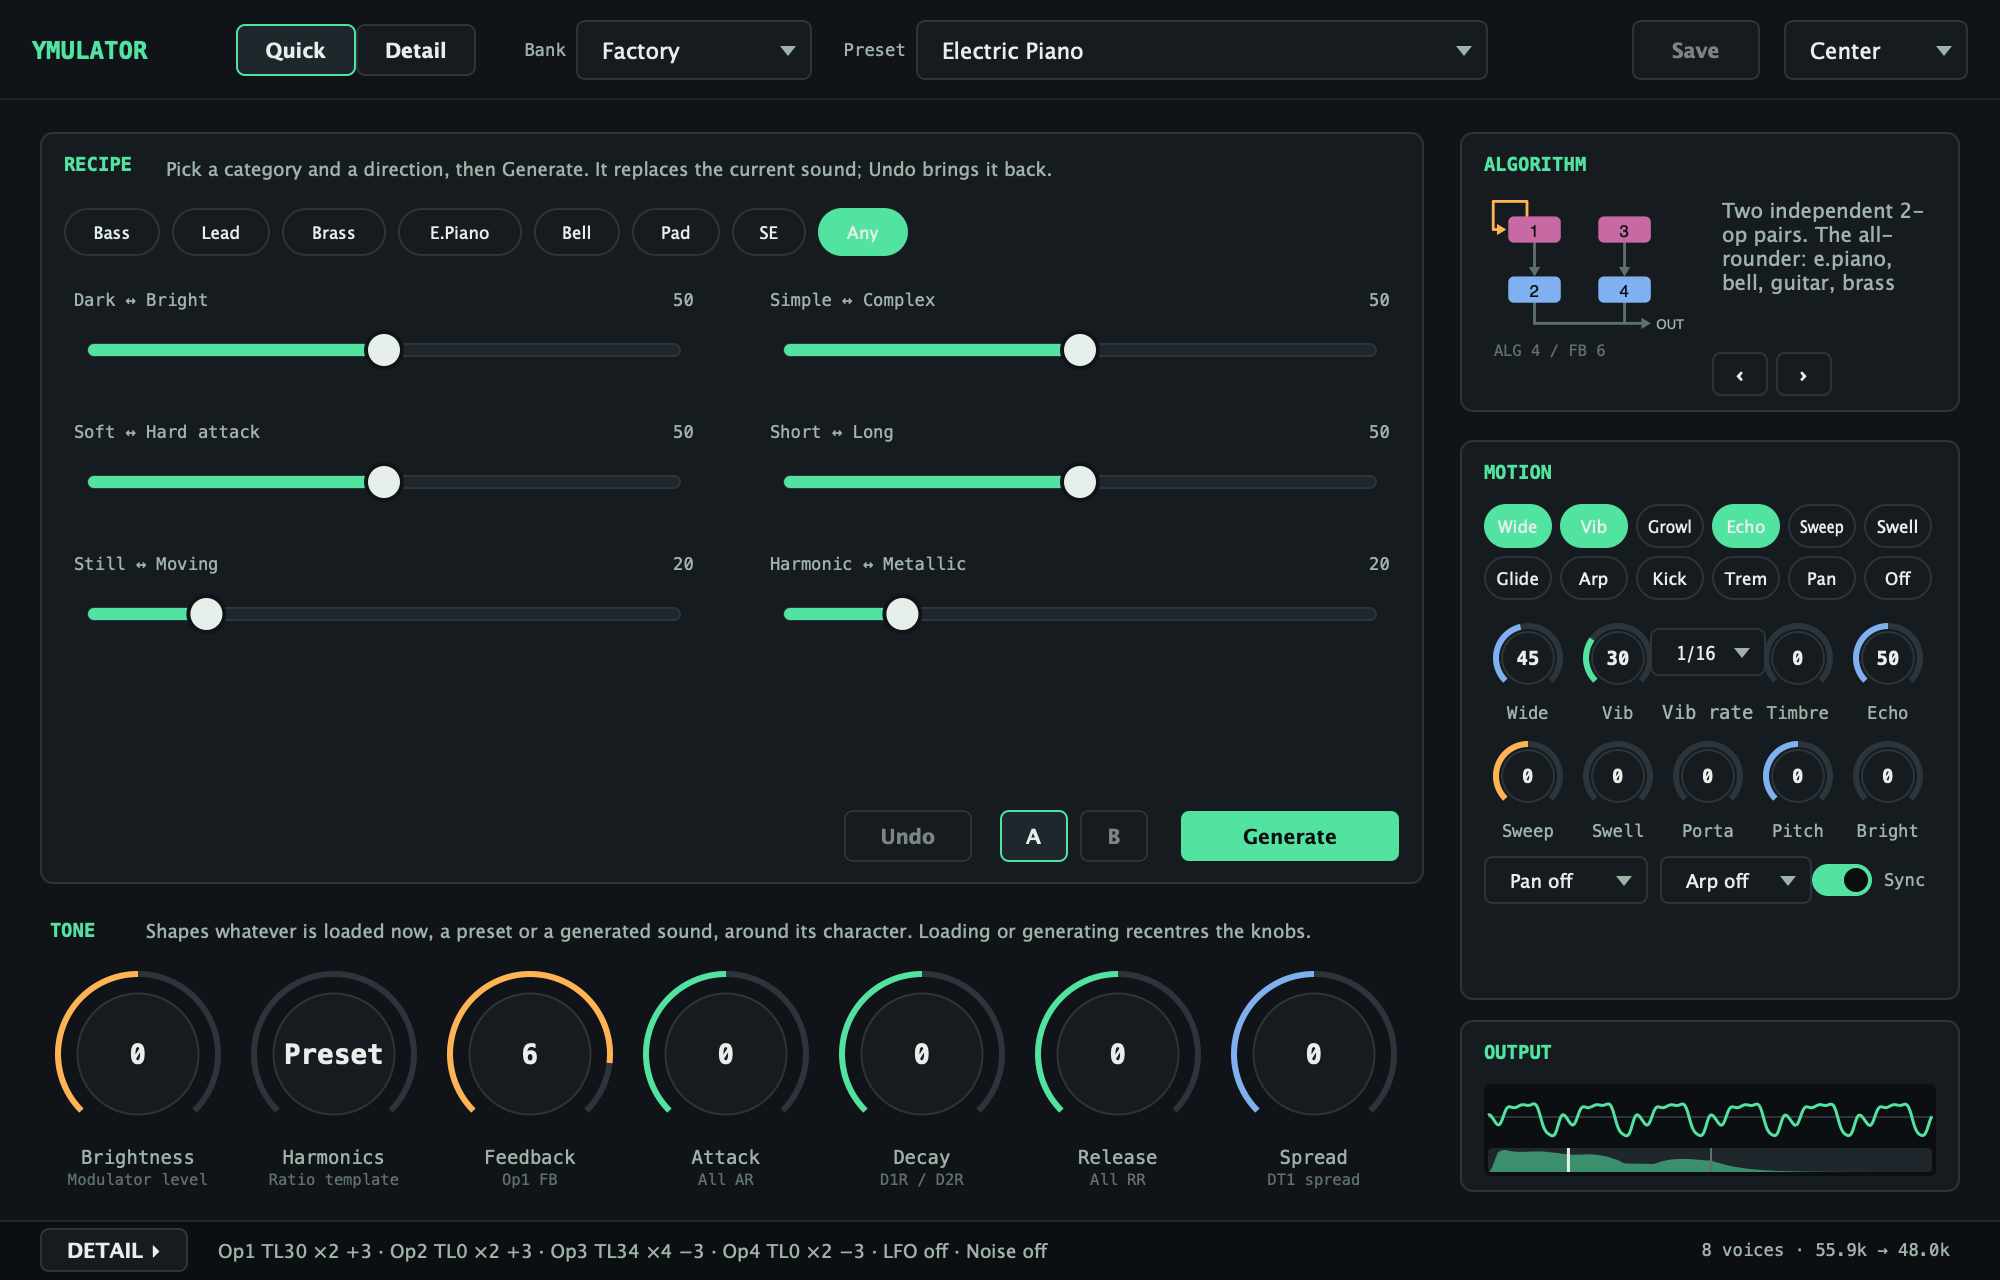
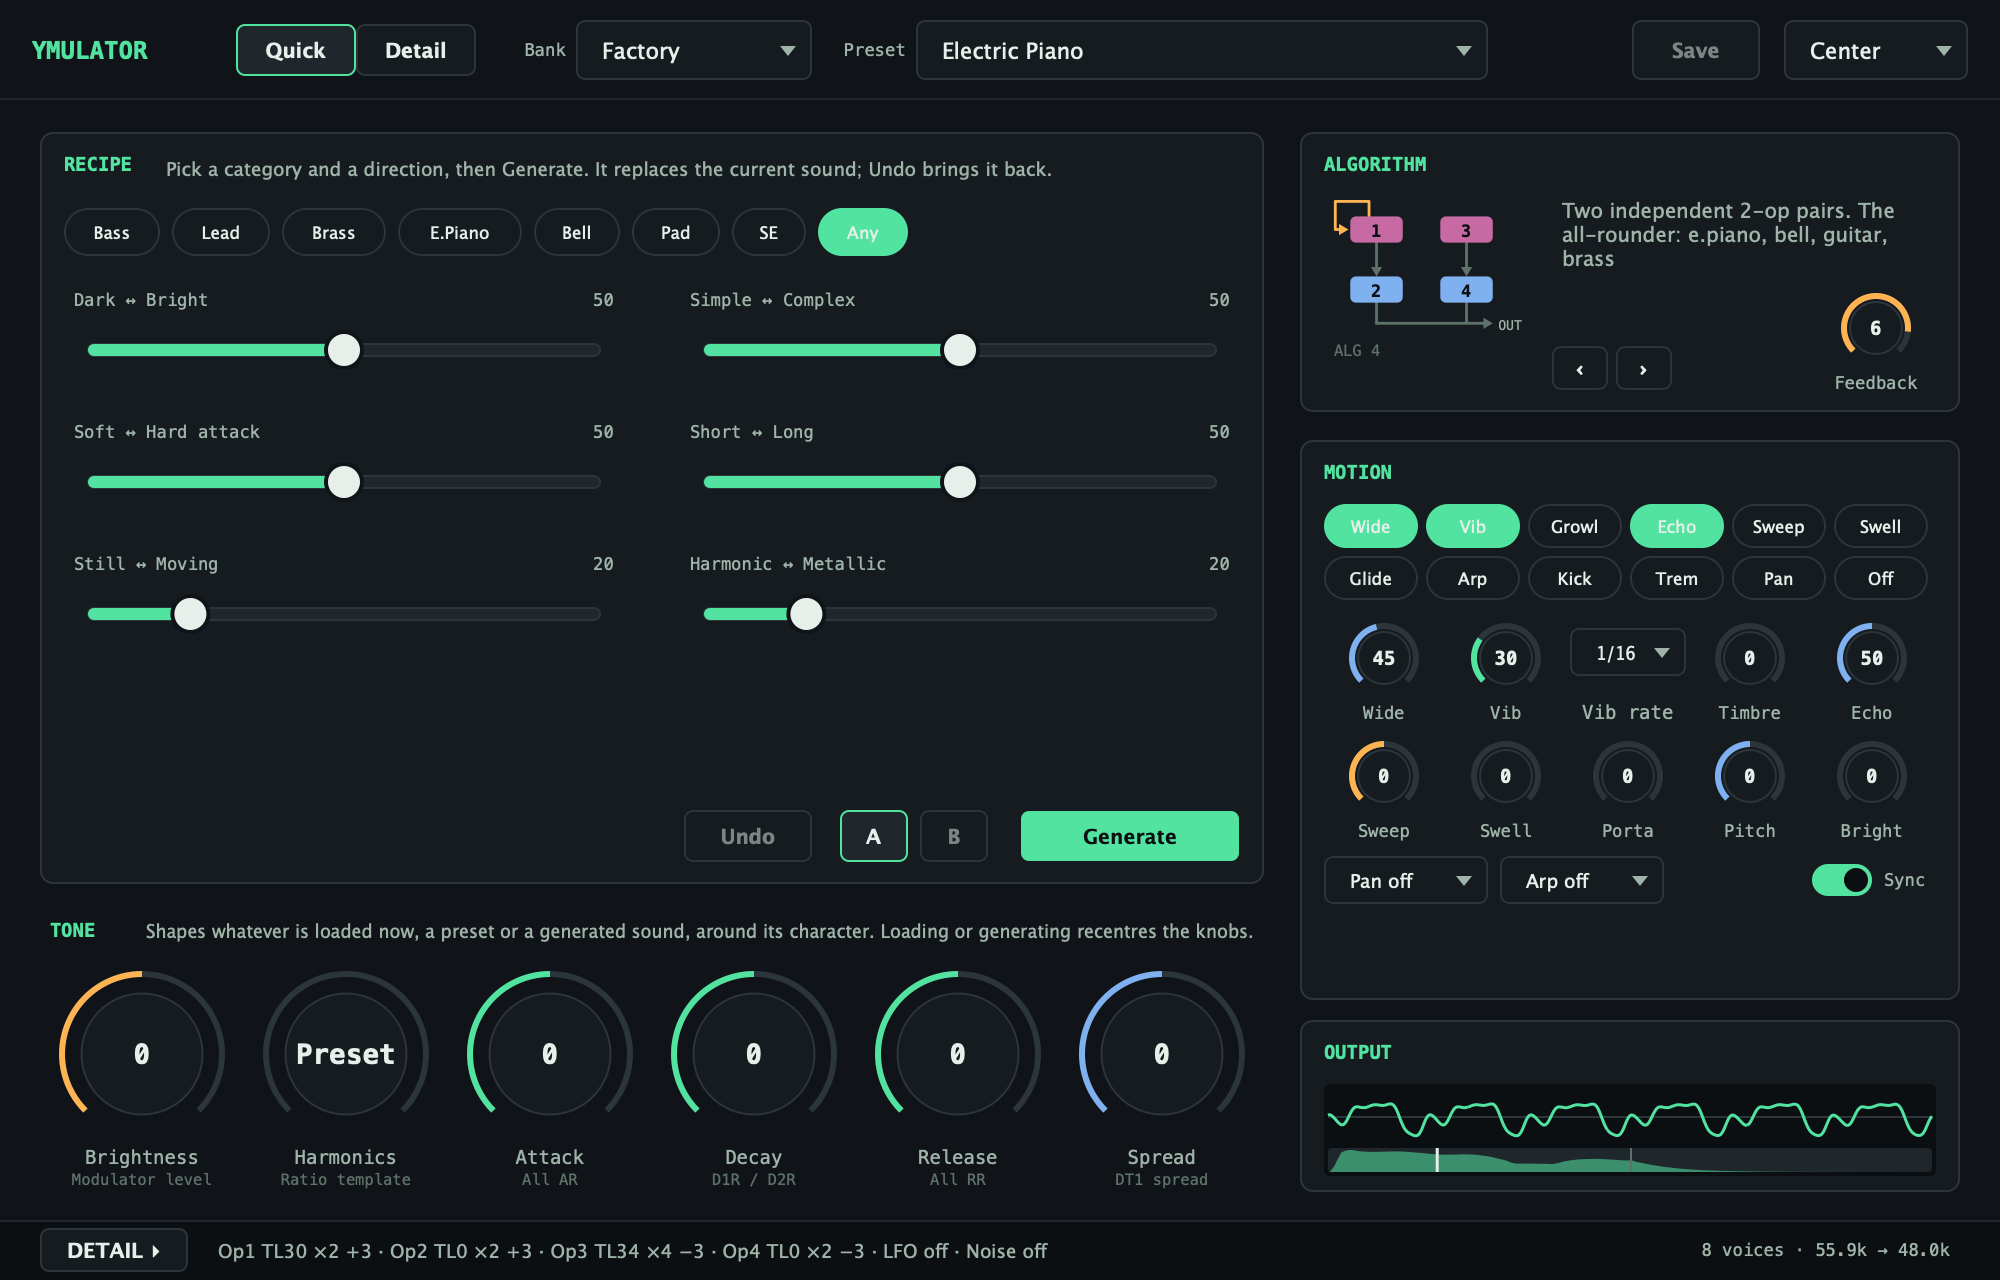
Feedback moves beside the algorithm; wider right column in the Quick view
Feedback is a channel register, not a relative macro, so it leaves the TONE
row and sits with the algorithm picker: at the right of the Detail TONE row
and in the Quick ALGORITHM card. The Quick view's right column grows from
250 to 330 px, giving the MOTION card room; the left column had space to
spare. Macros that target feedback still highlight the knob.

Claude-Session: https://claude.ai/code/session_015bSAYxwA6q5QPzBfnbv5nY

diff --git a/src/ui/QuickView.cpp b/src/ui/QuickView.cpp
@@ -6,7 +6,7 @@
 #include "../core/PatchWorkspace.h"
 
 namespace {
-constexpr int kSideWidth = 250;
+constexpr int kSideWidth = 330;   // the right column: algorithm, motion, output
 constexpr int kGap = 14;
 constexpr int kFooterHeight = 30;
 const char* const kHarmonicsNames[] = { "Preset", "Saw", "Square", "Pulse", "Bright", "Bell", "Metal", "Sub", "Oct" };
@@ -18,7 +18,6 @@ juce::String signedText(double v)
     return (i > 0 ? "+" : juce::String(juce::CharPointer_UTF8("\xe2\x88\x92"))) + juce::String(std::abs(i));
 }
 
-juce::String plainText(double v) { return juce::String(juce::roundToInt(v)); }
 
 juce::String harmonicsText(double v) { return juce::String(kHarmonicsNames[juce::jlimit(0, 8, juce::roundToInt(v))]); }
 
@@ -82,7 +81,6 @@ QuickView::QuickView(YMulatorSynthAudioProcessor& processor)
     
     addMacroKnob(ParamID::Macro::Brightness, "Brightness", "Modulator level", UiTheme::amber, signedText);
     addMacroKnob(ParamID::Macro::Harmonics, "Harmonics", "Ratio template", UiTheme::amber, harmonicsText);
-    addMacroKnob(ParamID::Global::Feedback, "Feedback", "Op1 FB", UiTheme::amber, plainText);
     addMacroKnob(ParamID::Macro::Attack, "Attack", "All AR", UiTheme::green, signedText);
     addMacroKnob(ParamID::Macro::Decay, "Decay", "D1R / D2R", UiTheme::green, signedText);
     addMacroKnob(ParamID::Macro::Release, "Release", "All RR", UiTheme::green, signedText);
@@ -101,6 +99,12 @@ QuickView::QuickView(YMulatorSynthAudioProcessor& processor)
     algorithmCaption->setFont(UiTheme::mono(9.0f));
     algorithmCaption->setColour(juce::Label::textColourId, UiTheme::dim);
     algorithmCard->addAndMakeVisible(*algorithmCaption);
+    feedbackKnob = std::make_unique<RotaryKnob>("Feedback", RotaryKnob::Style::Small);
+    feedbackKnob->setAccentColour(UiTheme::amber);
+    feedbackKnob->setTooltip("Operator 1 feeds back into itself: 0 clean, 7 buzzy");
+    algorithmCard->addAndMakeVisible(*feedbackKnob);
+    feedbackBinding = KnobBinding::attach(audioProcessor.getParameters(), ParamID::Global::Feedback, *feedbackKnob, *algorithmCard,
+                                          [this]() { if (outputScope) refresh(); });   // the cards below do not exist yet while constructing
     previousAlgorithmButton = std::make_unique<juce::TextButton>(juce::String(juce::CharPointer_UTF8("\xe2\x80\xb9")));
     previousAlgorithmButton->setTooltip("Previous algorithm");
     previousAlgorithmButton->onClick = [this]() { stepAlgorithm(-1); };
@@ -209,7 +213,7 @@ void QuickView::refresh()
     algorithmDisplay->setAlgorithm(displayedAlgorithm);
     algorithmDisplay->setFeedbackLevel(feedback);
     algorithmDescription->setText(info.description, juce::dontSendNotification);
-    algorithmCaption->setText("ALG " + juce::String(displayedAlgorithm) + " / FB " + juce::String(feedback), juce::dontSendNotification);
+    algorithmCaption->setText("ALG " + juce::String(displayedAlgorithm), juce::dontSendNotification);
     updateSummary();
     updateWorkspaceButtons();
     updatePreview();
@@ -338,11 +342,16 @@ void QuickView::resized()
         algorithmDisplay->setBounds(diagram.withHeight(66).withY(body.getY() + 2));
         algorithmCaption->setBounds(diagram.withY(body.getY() + 70).withHeight(14));
         body.removeFromLeft(10);
-        auto buttons = body.removeFromBottom(22);
+        // The description on top; underneath, the previous / next buttons and, at the right, the feedback
+        // knob, which belongs with the algorithm rather than with the TONE macros
+        const auto fbSize = RotaryKnob::preferredSize(RotaryKnob::Style::Small, RotaryKnob::LabelPosition::Below, false, 60);
+        auto bottom = body.removeFromBottom(fbSize.getHeight());
+        feedbackKnob->setBounds(bottom.removeFromRight(fbSize.getWidth()));
+        auto buttons = bottom.withHeight(22).withCentre({ bottom.getCentreX(), bottom.getBottom() - 14 });
         previousAlgorithmButton->setBounds(buttons.removeFromLeft(28));
         buttons.removeFromLeft(4);
         nextAlgorithmButton->setBounds(buttons.removeFromLeft(28));
-        algorithmDescription->setBounds(body.withTrimmedBottom(4));
+        algorithmDescription->setBounds(body.withTrimmedBottom(2));
     }
     
     content.removeFromBottom(kGap);

diff --git a/src/ui/ToneStrip.cpp b/src/ui/ToneStrip.cpp
@@ -29,7 +29,6 @@ ToneStrip::ToneStrip(YMulatorSynthAudioProcessor& processor)
     
     addMacroKnob(Macro::Brightness, ParamID::Macro::Brightness, "Bright", UiTheme::amber);
     addMacroKnob(Macro::Harmonics, ParamID::Macro::Harmonics, "Harm", UiTheme::amber);
-    addMacroKnob(std::nullopt, ParamID::Global::Feedback, "FB", UiTheme::amber);
     addMacroKnob(Macro::Attack, ParamID::Macro::Attack, "Atk", UiTheme::green);
     addMacroKnob(Macro::Decay, ParamID::Macro::Decay, "Dec", UiTheme::green);
     addMacroKnob(Macro::Release, ParamID::Macro::Release, "Rel", UiTheme::green);
@@ -49,6 +48,11 @@ ToneStrip::ToneStrip(YMulatorSynthAudioProcessor& processor)
     addAndMakeVisible(*algorithmComboBox);
     algorithmAttachment = std::make_unique<juce::AudioProcessorValueTreeState::ComboBoxAttachment>(
         audioProcessor.getParameters(), ParamID::Global::Algorithm, *algorithmComboBox);
+    
+    feedbackKnob = std::make_unique<RotaryKnob>("FB", RotaryKnob::Style::Small);
+    feedbackKnob->setAccentColour(UiTheme::amber);
+    addAndMakeVisible(*feedbackKnob);
+    feedbackBinding = KnobBinding::attach(audioProcessor.getParameters(), ParamID::Global::Feedback, *feedbackKnob, *this);
     
     setAlgorithm(algorithmComboBox->getSelectedId() - 1);
 }
@@ -110,12 +114,14 @@ void ToneStrip::setHighlightedParameters(const std::set<std::string>& parameterI
 {
     for (auto& k : knobs)
         k.knob->setHighlighted(parameterIds.count(k.parameterId) > 0);
+    feedbackKnob->setHighlighted(parameterIds.count(ParamID::Global::Feedback) > 0);
 }
 
 std::vector<std::string> ToneStrip::highlightedParameterIds() const
 {
     std::vector<std::string> ids;
     for (const auto& k : knobs) if (k.knob->isHighlighted()) ids.push_back(k.parameterId);
+    if (feedbackKnob->isHighlighted()) ids.push_back(ParamID::Global::Feedback);
     return ids;
 }
 
@@ -144,8 +150,12 @@ void ToneStrip::resized()
     }
     x += kKnobGap + 1 + kKnobGap;
     
-    // Right cluster: diagram, then the picker with the structure text under it
+    // Right cluster: diagram, the picker, and the feedback knob that belongs with it
     auto right = bounds;
+    const auto fbSize = RotaryKnob::preferredSize(RotaryKnob::Style::Small, RotaryKnob::LabelPosition::Below, false, kKnobWidth);
+    auto fbArea = right.removeFromRight(fbSize.getWidth());
+    feedbackKnob->setBounds(fbArea.withHeight(fbSize.getHeight()).withCentre(fbArea.getCentre()));
+    right.removeFromRight(8);
     auto pickerArea = right.removeFromRight(100);
     algorithmComboBox->setBounds(pickerArea.withHeight(26).withCentre(pickerArea.getCentre()));
     right.removeFromRight(10);

diff --git a/src/ui/QuickView.h b/src/ui/QuickView.h
@@ -68,6 +68,8 @@ private:
     std::unique_ptr<juce::TextButton> newSoundButton, undoButton, slotAButton, slotBButton;
     std::unique_ptr<juce::Label> generateNote;
     std::unique_ptr<AlgorithmDisplay> algorithmDisplay;
+    std::unique_ptr<RotaryKnob> feedbackKnob;
+    KnobBinding feedbackBinding;
     std::unique_ptr<juce::Label> algorithmDescription, algorithmCaption;
     std::unique_ptr<juce::TextButton> previousAlgorithmButton, nextAlgorithmButton;
     std::unique_ptr<juce::TextButton> detailLink;

diff --git a/src/ui/ToneStrip.h b/src/ui/ToneStrip.h
@@ -52,6 +52,8 @@ private:
     std::unique_ptr<juce::Label> hintLabel;
     std::unique_ptr<AlgorithmDisplay> algorithmDisplay;
     std::unique_ptr<juce::ComboBox> algorithmComboBox;
+    std::unique_ptr<RotaryKnob> feedbackKnob;   // a channel register like the algorithm, so it sits beside it
+    KnobBinding feedbackBinding;
     std::unique_ptr<juce::AudioProcessorValueTreeState::ComboBoxAttachment> algorithmAttachment;
     int currentAlgorithm = 0;
     

diff --git a/README.md b/README.md
@@ -16,7 +16,7 @@ An FM synthesizer plugin that emulates the YM2151 (OPM). The sound comes from Aa
 
 - **Sound**: YM2151 emulation by ymfm. 8 voices, 8 algorithms, DT1 / DT2 / KS / feedback, the LFO with its four waveforms, the noise generator. The chip's 55.9 kHz output is resampled to the host rate.
 - **Two views**: the Quick view has macros and per-feature switches, the Detail view has one knob per register. Both show the same parameters, so switching does not change the sound.
-- **TONE macros**: Brightness, Harmonics, Attack, Decay, Release, Spread and Feedback move the related operator parameters together, relative to the loaded preset. Editing a register in the Detail view makes that value the macro's new base.
+- **TONE macros**: Brightness, Harmonics, Attack, Decay, Release and Spread move the related operator parameters together, relative to the loaded preset. Editing a register in the Detail view makes that value the macro's new base.
 - **RECIPE**: pick a category (Bass, Lead, Brass, E.Piano, Bell, Pad, SE, Any) and six directions, press Generate. Undo and A/B compare the result with what you had.
 - **MOTION**: the parameters that change over time. Wide (a second chip, slightly detuned, on the other side; all 8 voices remain), Echo (a delayed, quieter copy on alternating sides), vibrato with delay and rise, timbre LFO, tremolo, pan movement, a two-stage pitch envelope, a brightness sweep, a level envelope, portamento / legato, velocity-to-brightness. Rates can follow the host tempo as note values.
 - **Arpeggiator**: Up, Down, Up-Down, Random or As played over the held notes, across up to four octaves. Either one channel changing only its pitch (down to 1/64) or retriggered steps with a gate. A chord table turns a single note into a chord, Latch keeps the pattern going after the keys are released, and an accent leans on the beat.
@@ -60,14 +60,14 @@ If macOS does not list the Audio Unit right away, run `killall -9 AudioComponent
 ### The Quick view
 
 - **RECIPE**: a category and six sliders (dark / bright, simple / complex, soft / hard attack, short / long, still / moving, harmonic / metallic) set the direction; Generate makes the sound. It replaces the current sound and centres the TONE knobs; the preset box shows "Generated".
-- **TONE**: seven macros over whatever is loaded, preset or generated. Brightness sets the modulator levels, Harmonics picks a frequency-ratio template (Preset, Saw, Square, Pulse, Bright, Bell, Metal, Sub, Octave), Feedback is operator 1's feedback, Attack / Decay / Release move the envelopes of all operators, Spread sets DT1 apart. Loading a preset or generating recentres them.
-- **ALGORITHM**: the eight connections as diagrams, with the feedback loop highlighted when feedback is on.
+- **TONE**: six macros over whatever is loaded, preset or generated. Brightness sets the modulator levels, Harmonics picks a frequency-ratio template (Preset, Saw, Square, Pulse, Bright, Bell, Metal, Sub, Octave), Attack / Decay / Release move the envelopes of all operators, Spread sets DT1 apart. Loading a preset or generating recentres them.
+- **ALGORITHM**: the eight connections as diagrams, with the feedback loop highlighted when feedback is on. The Feedback knob sits here, since it is part of the connection rather than a macro.
 - **MOTION**: one chip per feature (Wide, Vib, Growl, Echo, Sweep, Swell, Glide, Arp, Kick, Trem, Pan). Pressing one switches it on with typical values; the knobs set the amounts. **Sync** makes the rates follow the host tempo, and the Vib rate knob becomes a note-value box. The other note values are in the Detail view.
 - **OUTPUT**: one note played with the current settings. The playhead moves over the level envelope and the waveform at that point is shown, so attack, decay and release are visible.
 
 ### The Detail view
 
-- The TONE row stays at the top. Touching a TONE knob puts an amber ring on the operator knobs it moves.
+- The TONE row stays at the top, with the algorithm picker and the Feedback knob at its right. Touching a TONE knob puts an amber ring on the operator knobs it moves.
 - Each operator row shows its role (MOD or CARRIER, NOISE when the noise generator is on), the three main knobs (Level, Ratio, Detune, in readable units with the register value underneath), the envelope, the five envelope knobs, KS, DT2 and AMS. The switch turns the operator on or off (the .opm SLOT mask).
 - The MOTION row holds every MOTION parameter in four cards: LFO (vibrato, timbre LFO, tremolo), ENVELOPE (pitch envelope, sweep, level envelope), SPACE (Wide, Echo, pan) and PLAY (legato and portamento, velocity brightness, arpeggio, with a "..." button for the chord table, octaves, retrigger and gate, latch and accent). Each card labels what its upper and lower rows hold. With Sync on, every rate knob turns into a note-value box.
 - The bottom row has the hardware LFO (rate, AMD, PMD, waveform), the noise generator (on / off and frequency) and the Expressive MIDI switch.

diff --git a/docs/ymulatorsynth-development-status.md b/docs/ymulatorsynth-development-status.md
@@ -44,6 +44,7 @@
 
 ## 🔧 0.1.1 後 (2026-09-07)
 
+- ✅ **Feedback の置き場所** - TONE 行の FB は他の 6 つ（相対マクロ）と性格が違い、Detail の OP1 行にも無かった。両画面ともアルゴリズムの横（Detail: TONE 行右端の ALG の隣、Quick: ALGORITHM カードの右下）へ。`ToneStrip` のハイライトは feedback を対象にするマクロ（ALG 7 の Brightness）で FB ノブも光らせる。Quick の右列 `kSideWidth` を 250 → 330 に
 - ✅ **アルペジエーターの拡張** - `MotionEngine::runArpeggio` に分離。順序 Up / Down / UpDown（端を繰り返さない）/ Random / 押した順、オクターブ 1〜4、リトリガー＋ゲート（OFF ならチップ式の音程切替のみ）、コード表（単音のときだけ適用。2 音以上は押さえた音を優先）、Latch（`MidiProcessor` が物理的に押されている鍵数を数え、離しても保持。Latch OFF で `onLatchOff` 経由で解放）、アクセント（拍または n ステップごと。非アクセントはキャリア TL を depth だけ下げる）。和音の変更は `HeldNotes::version` で検知し、ステップに量子化した起点から再開（ホストは小節頭の音を少し早いブロックで渡すため）。CC 108 / 109 / 119。Detail の PLAY カードの「…」で `ArpSettingsPanel` を CallOutBox に表示。`tests/unit/MonoArpTest.cpp` に 12 件追加（トランスポート同期の起点テストを含む）。デモの Glass Arp は和音打ち込み版（`compose_speedrun.py --arp-chords`）で前半 8 ステップが 16 分打ち込み版と一致、後半はルートから再開する点だけ異なる
 - ✅ **エンベロープ表示の修正** - `EnvelopeDisplay` を YM2151 の動作に合わせて書き直し。サステインは TL + 4×D1L（D1L 15 は無音まで）、D1R 0 はピーク保持で D2 は始まらない、D2 は保持中に傾き無音に届きうる、RR はチップレート 2×RR+1。時間は `2^((31−R)/4)` で対数軸に描画。`tests/ui/EnvelopeDisplayTest.cpp` で形を検証
 

diff --git a/CHANGELOG_ja.md b/CHANGELOG_ja.md
@@ -5,6 +5,7 @@ YMulator-Synth の変更履歴。English: [CHANGELOG.md](CHANGELOG.md)。
 ## 未リリース
 
 **✨ 新機能:**
+- **Feedback をアルゴリズムの横に**: Feedback のノブは相対マクロではなくレジスタそのものなので TONE 行から外し、両画面ともアルゴリズム選択の隣に置いた。Quick の右列を広げ、MOTION カードに余裕を持たせた
 - **アルペジエーター**: Random と押した順の順序、最大 4 オクターブ、ゲート付きリトリガー（OFF はチップ式で音程のみ）、単音を和音にするコード表（Major / Minor / 7th / m7 / Maj7 / Sus4 / Sus2 / Dim / Aug / 5th / Octave）、Latch、拍または 2〜4 ステップごとのアクセント。新しい和音でパターンをルートから始め、ステップに量子化するので小節頭に置いた和音は小節頭から始まる。CC 108 / 109 / 119 でコード表・オクターブ・ゲート。細かい設定は Detail のアルペジオ横の「…」ボタンから
 
 **🐛 修正:**

diff --git a/CHANGELOG.md b/CHANGELOG.md
@@ -5,6 +5,7 @@ All notable changes to YMulator-Synth. Japanese: [CHANGELOG_ja.md](CHANGELOG_ja.
 ## Unreleased
 
 **✨ New:**
+- **Feedback beside the algorithm**: the Feedback knob leaves the TONE row (it is a register, not a relative macro) and sits with the algorithm picker in both views. The Quick view's right column is wider, so the MOTION card has more room
 - **Arpeggiator**: Random and As-played orders, up to four octaves, retrigger with a gate (off: chip style, pitch only), a chord table that arpeggiates a single note (Major, Minor, 7th, m7, Maj7, Sus4, Sus2, Dim, Aug, 5th, Octave), Latch, and an accent on the beat or every 2-4 steps. A new chord restarts the pattern on its first note, quantised to the step so a chord placed on the bar line starts on the bar line. CC 108 / 109 / 119 set the chord table, octaves and gate. The finer settings open from the "..." button next to the arpeggio in the Detail view
 
 **🐛 Fixes:**
